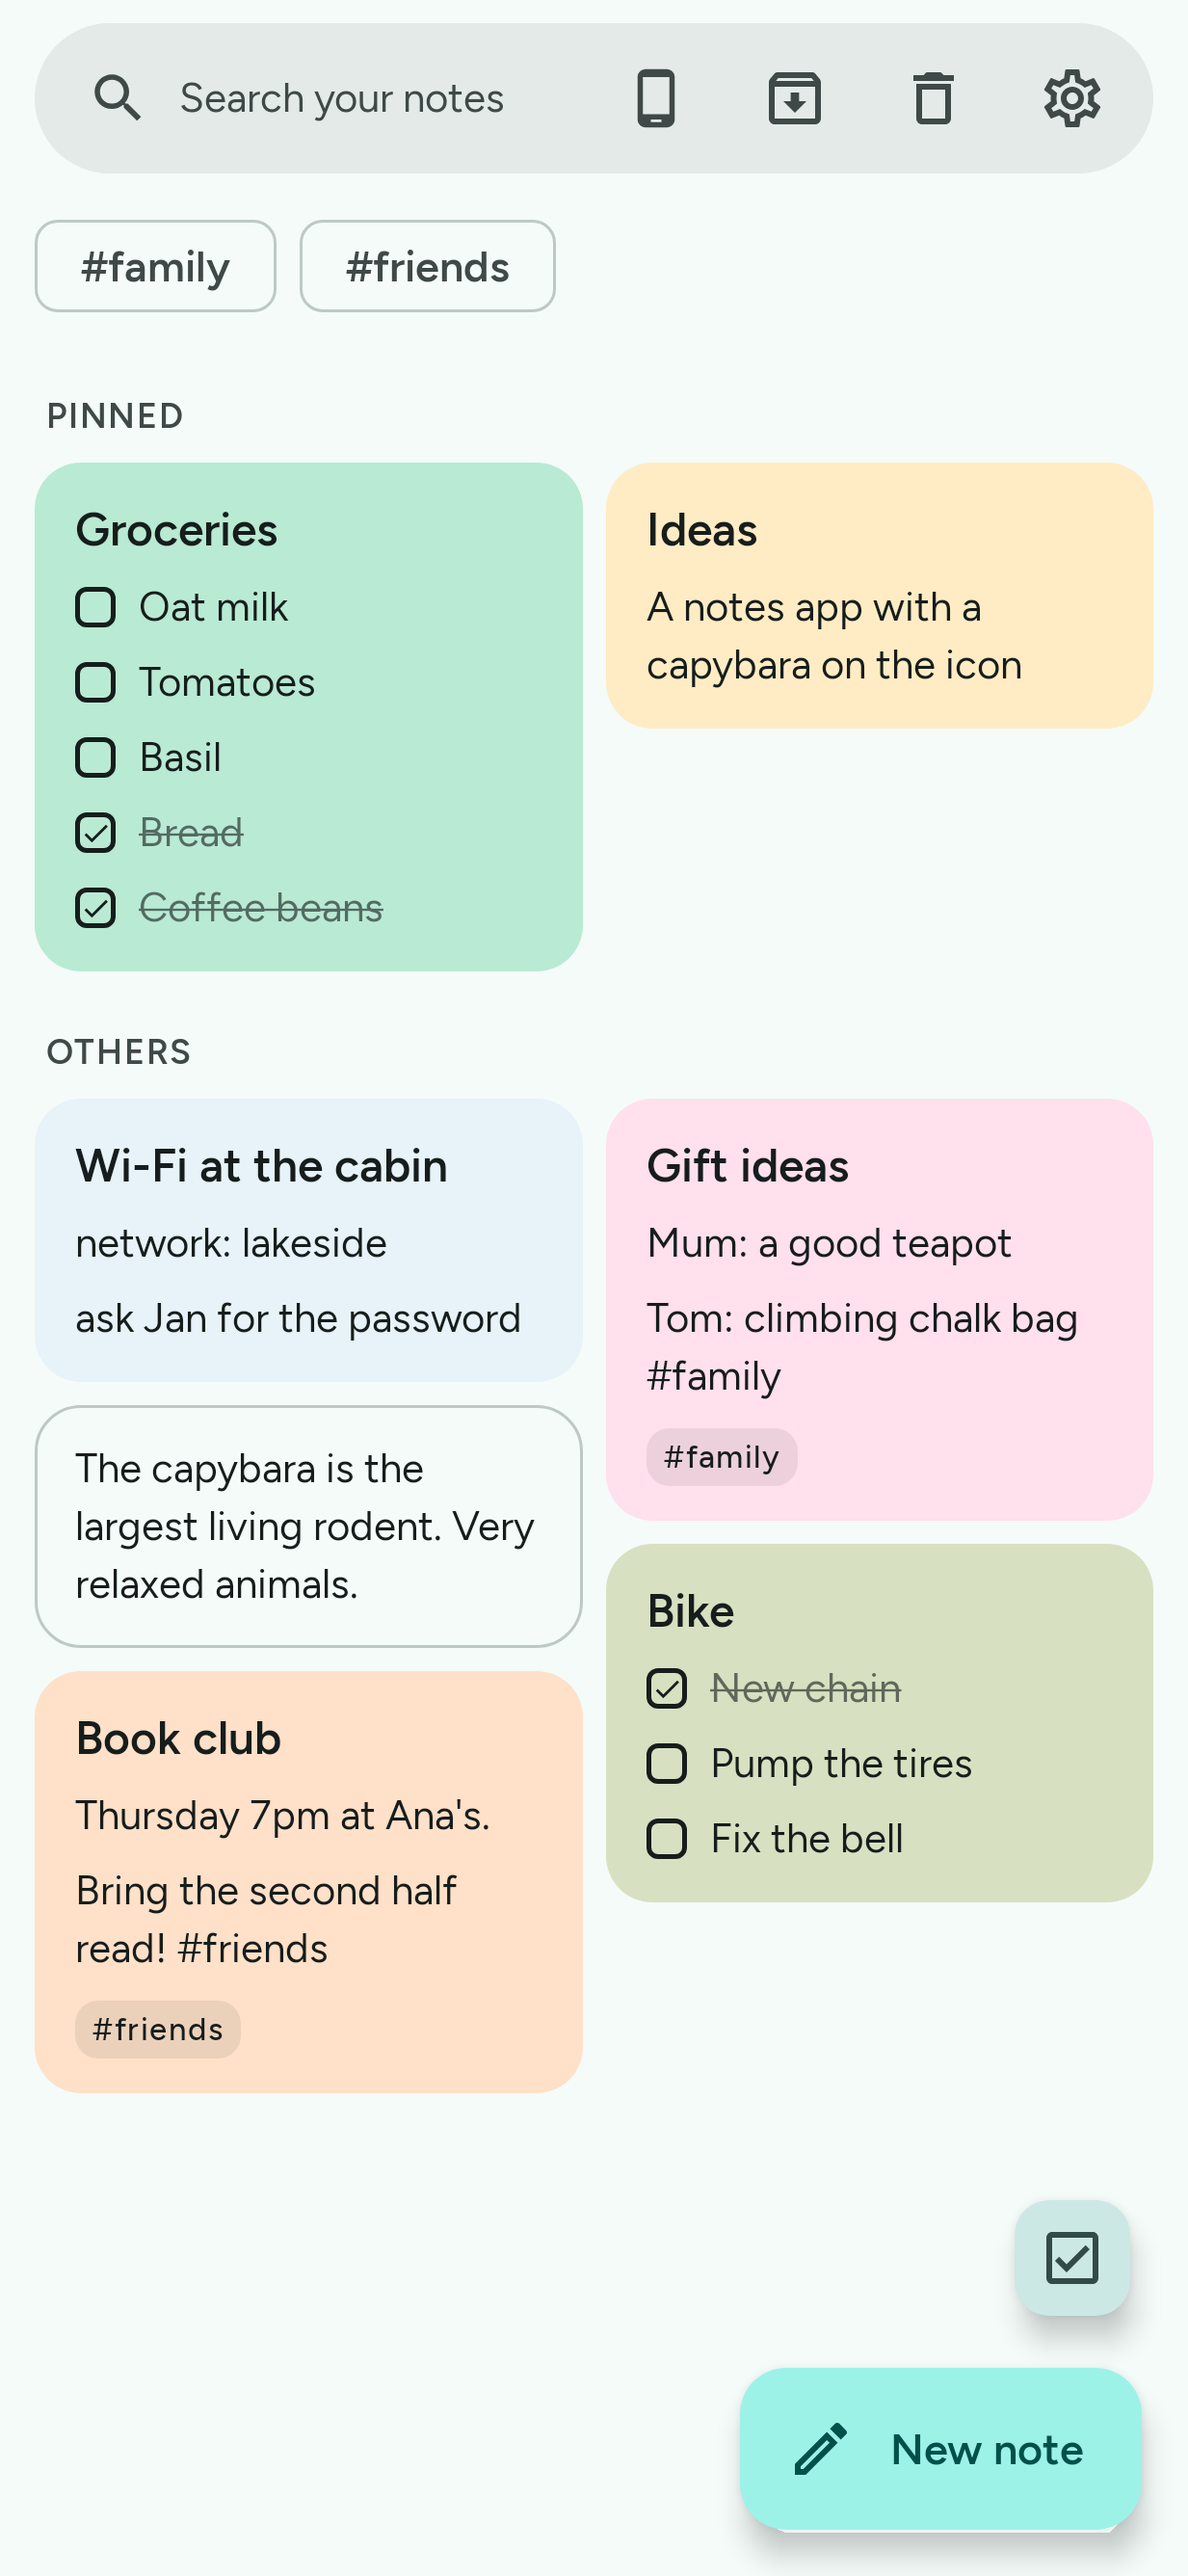
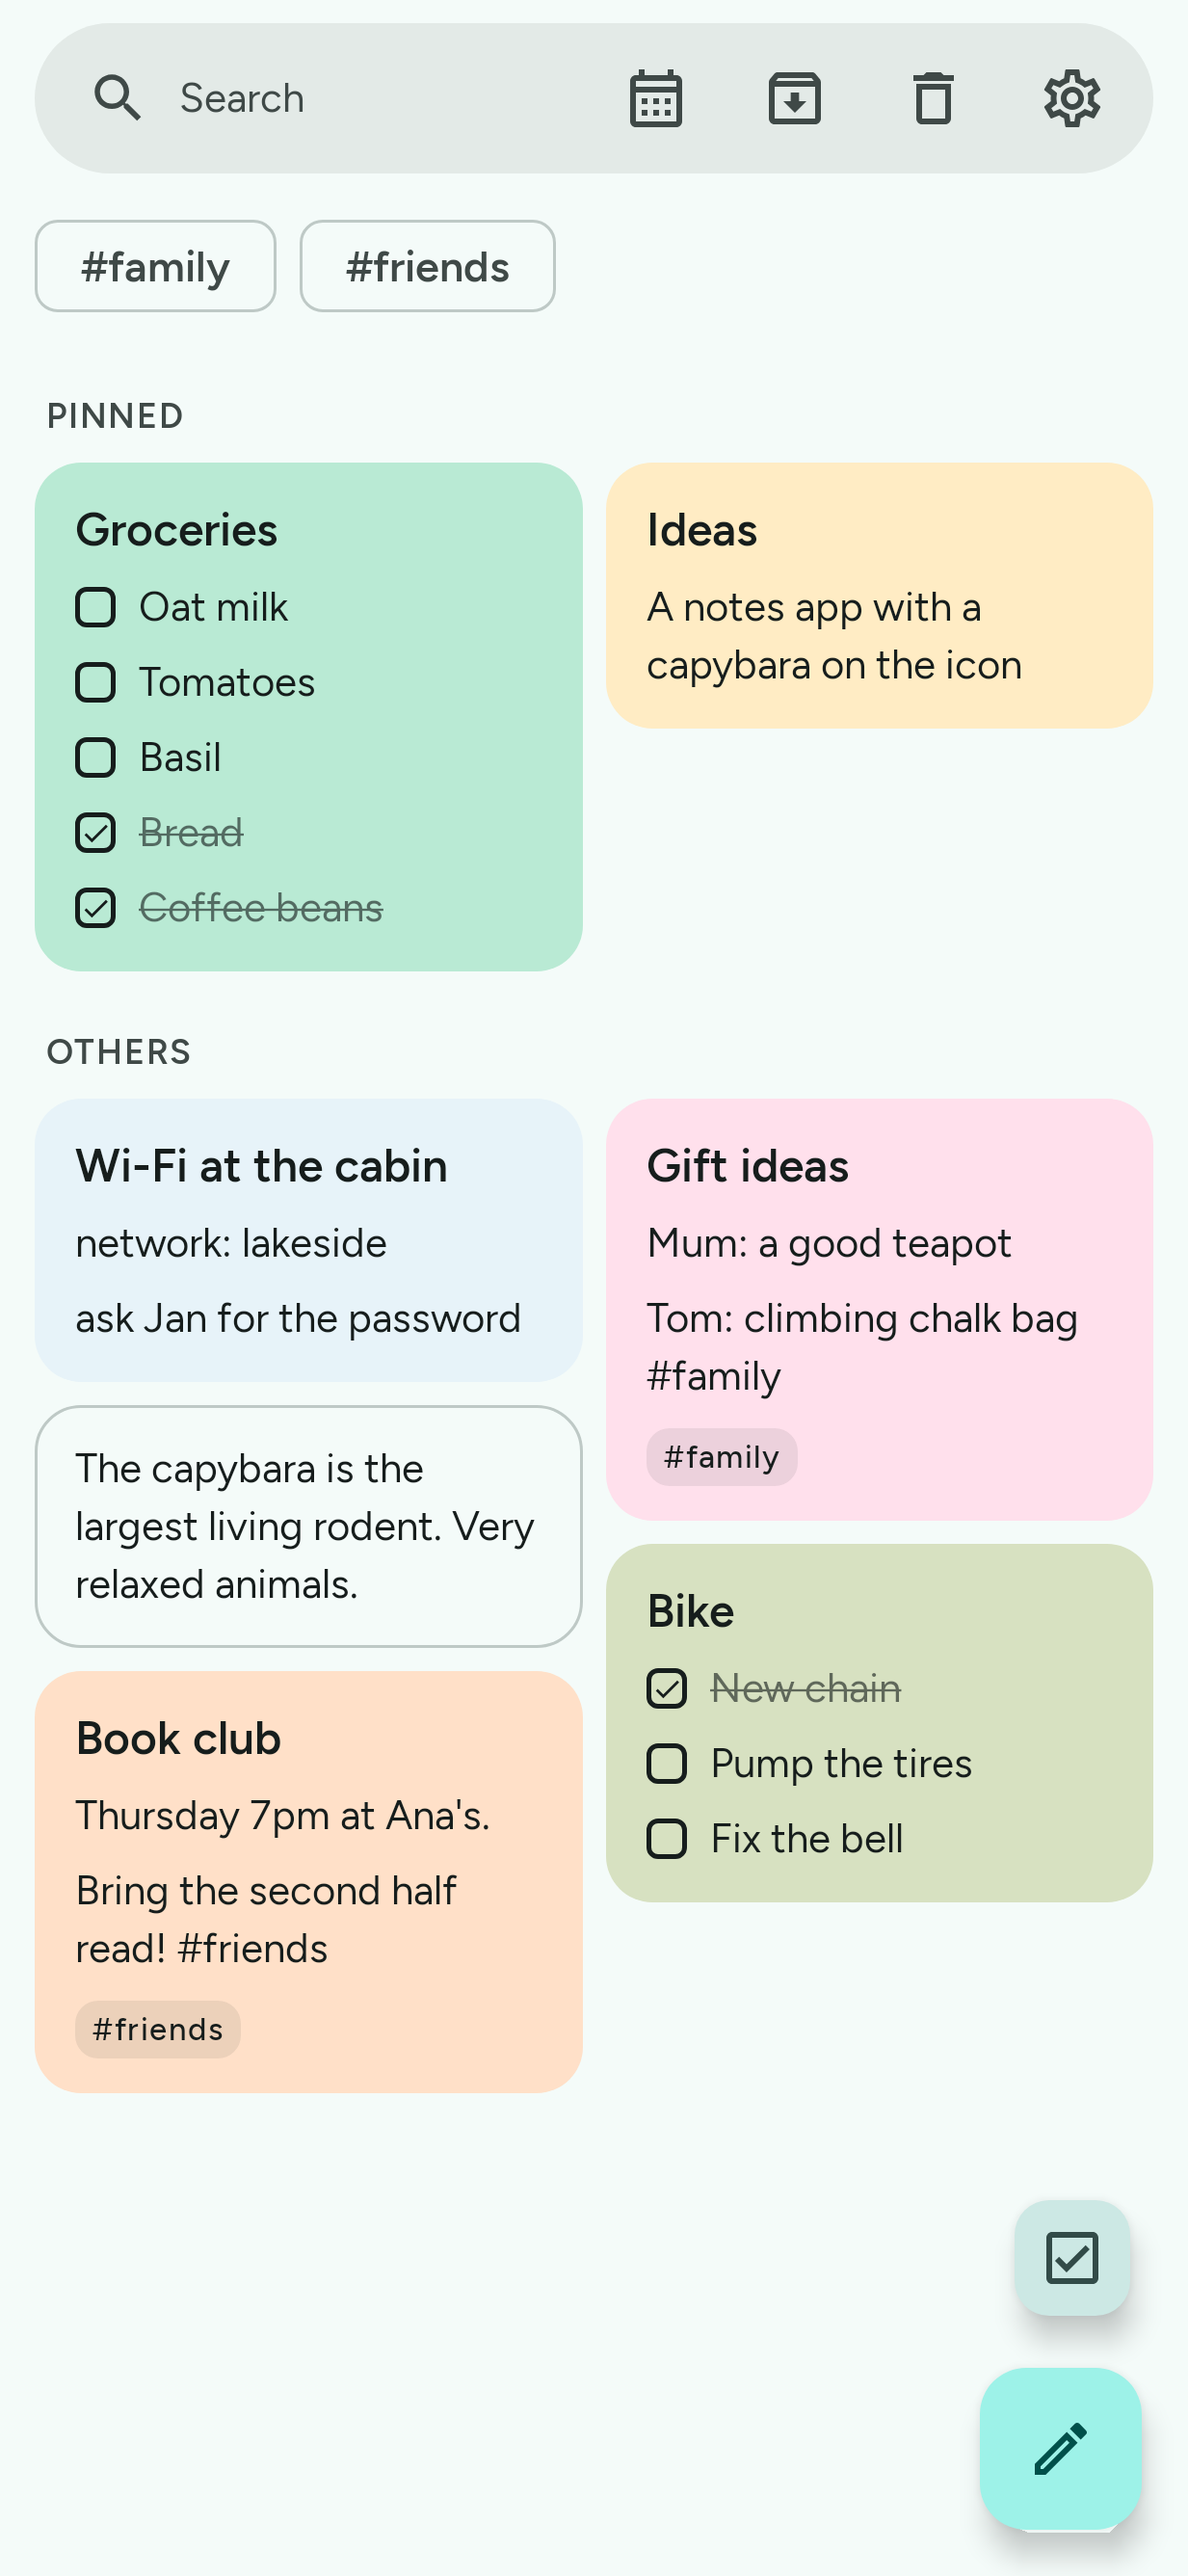
Capynib 0.2.0 brings photos, recordings and the calendar
Raises the version to 0.2.0 (versionCode 3) with its store changelog, and retakes the store
screenshots of the board, which now shows the calendar button and the pencil new note button.
The F-Droid recipe in the handoff names the release key's fingerprint.

Claude-Session: https://claude.ai/code/session_01EKccD31PqCPi5Ec4qfqw7w

diff --git a/docs/handoff/01-f-droid-submission.md b/docs/handoff/01-f-droid-submission.md
@@ -46,7 +46,7 @@ Builds:
     gradle:
       - yes
 
-AllowedAPKSigningKeys: <the release key's SHA-256 fingerprint>
+AllowedAPKSigningKeys: 7ed522a5aa8a4075c4378b41bd0b6fa7229e56cc5eb20bae7619cc4e2ffdb422
 
 AutoUpdateMode: Version
 UpdateCheckMode: Tags ^v\d+\.\d+\.\d+$

diff --git a/CHANGELOG.md b/CHANGELOG.md
@@ -2,6 +2,8 @@
 
 ## Unreleased
 
+## 0.2.0 - 2026-11-09
+
 ### Features
 
 - The home screen widgets are one tile each: a pen for a new note and a checkbox for a new checklist, on a see-through circle.
